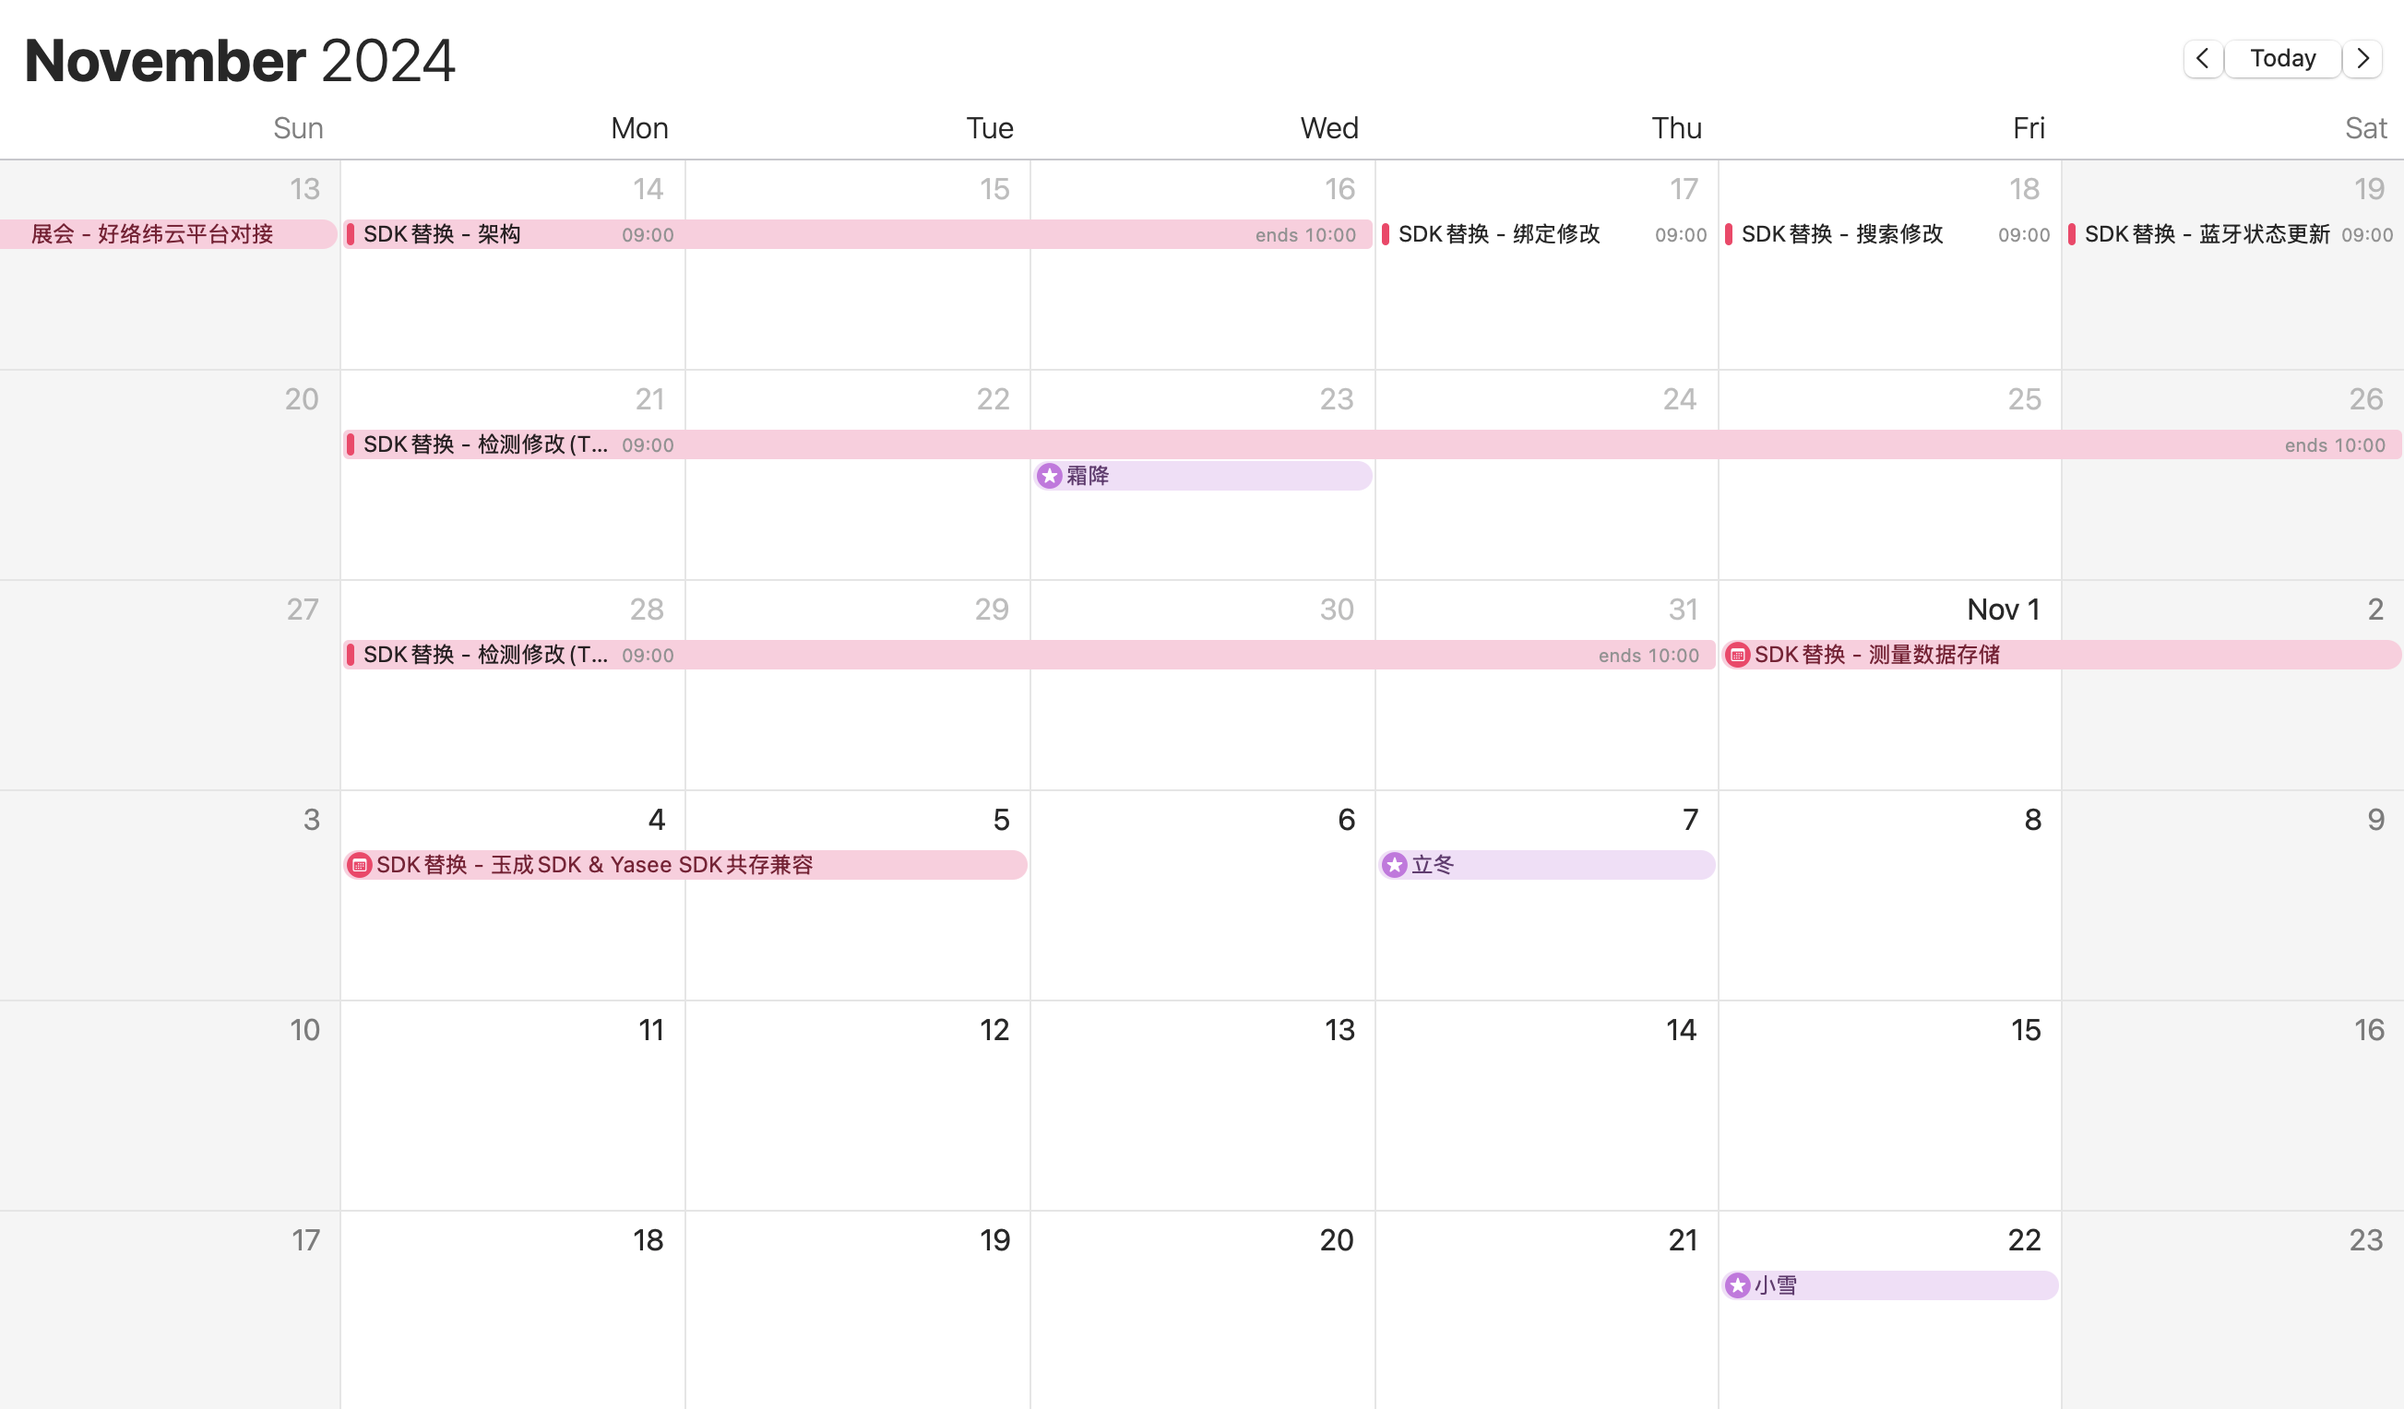
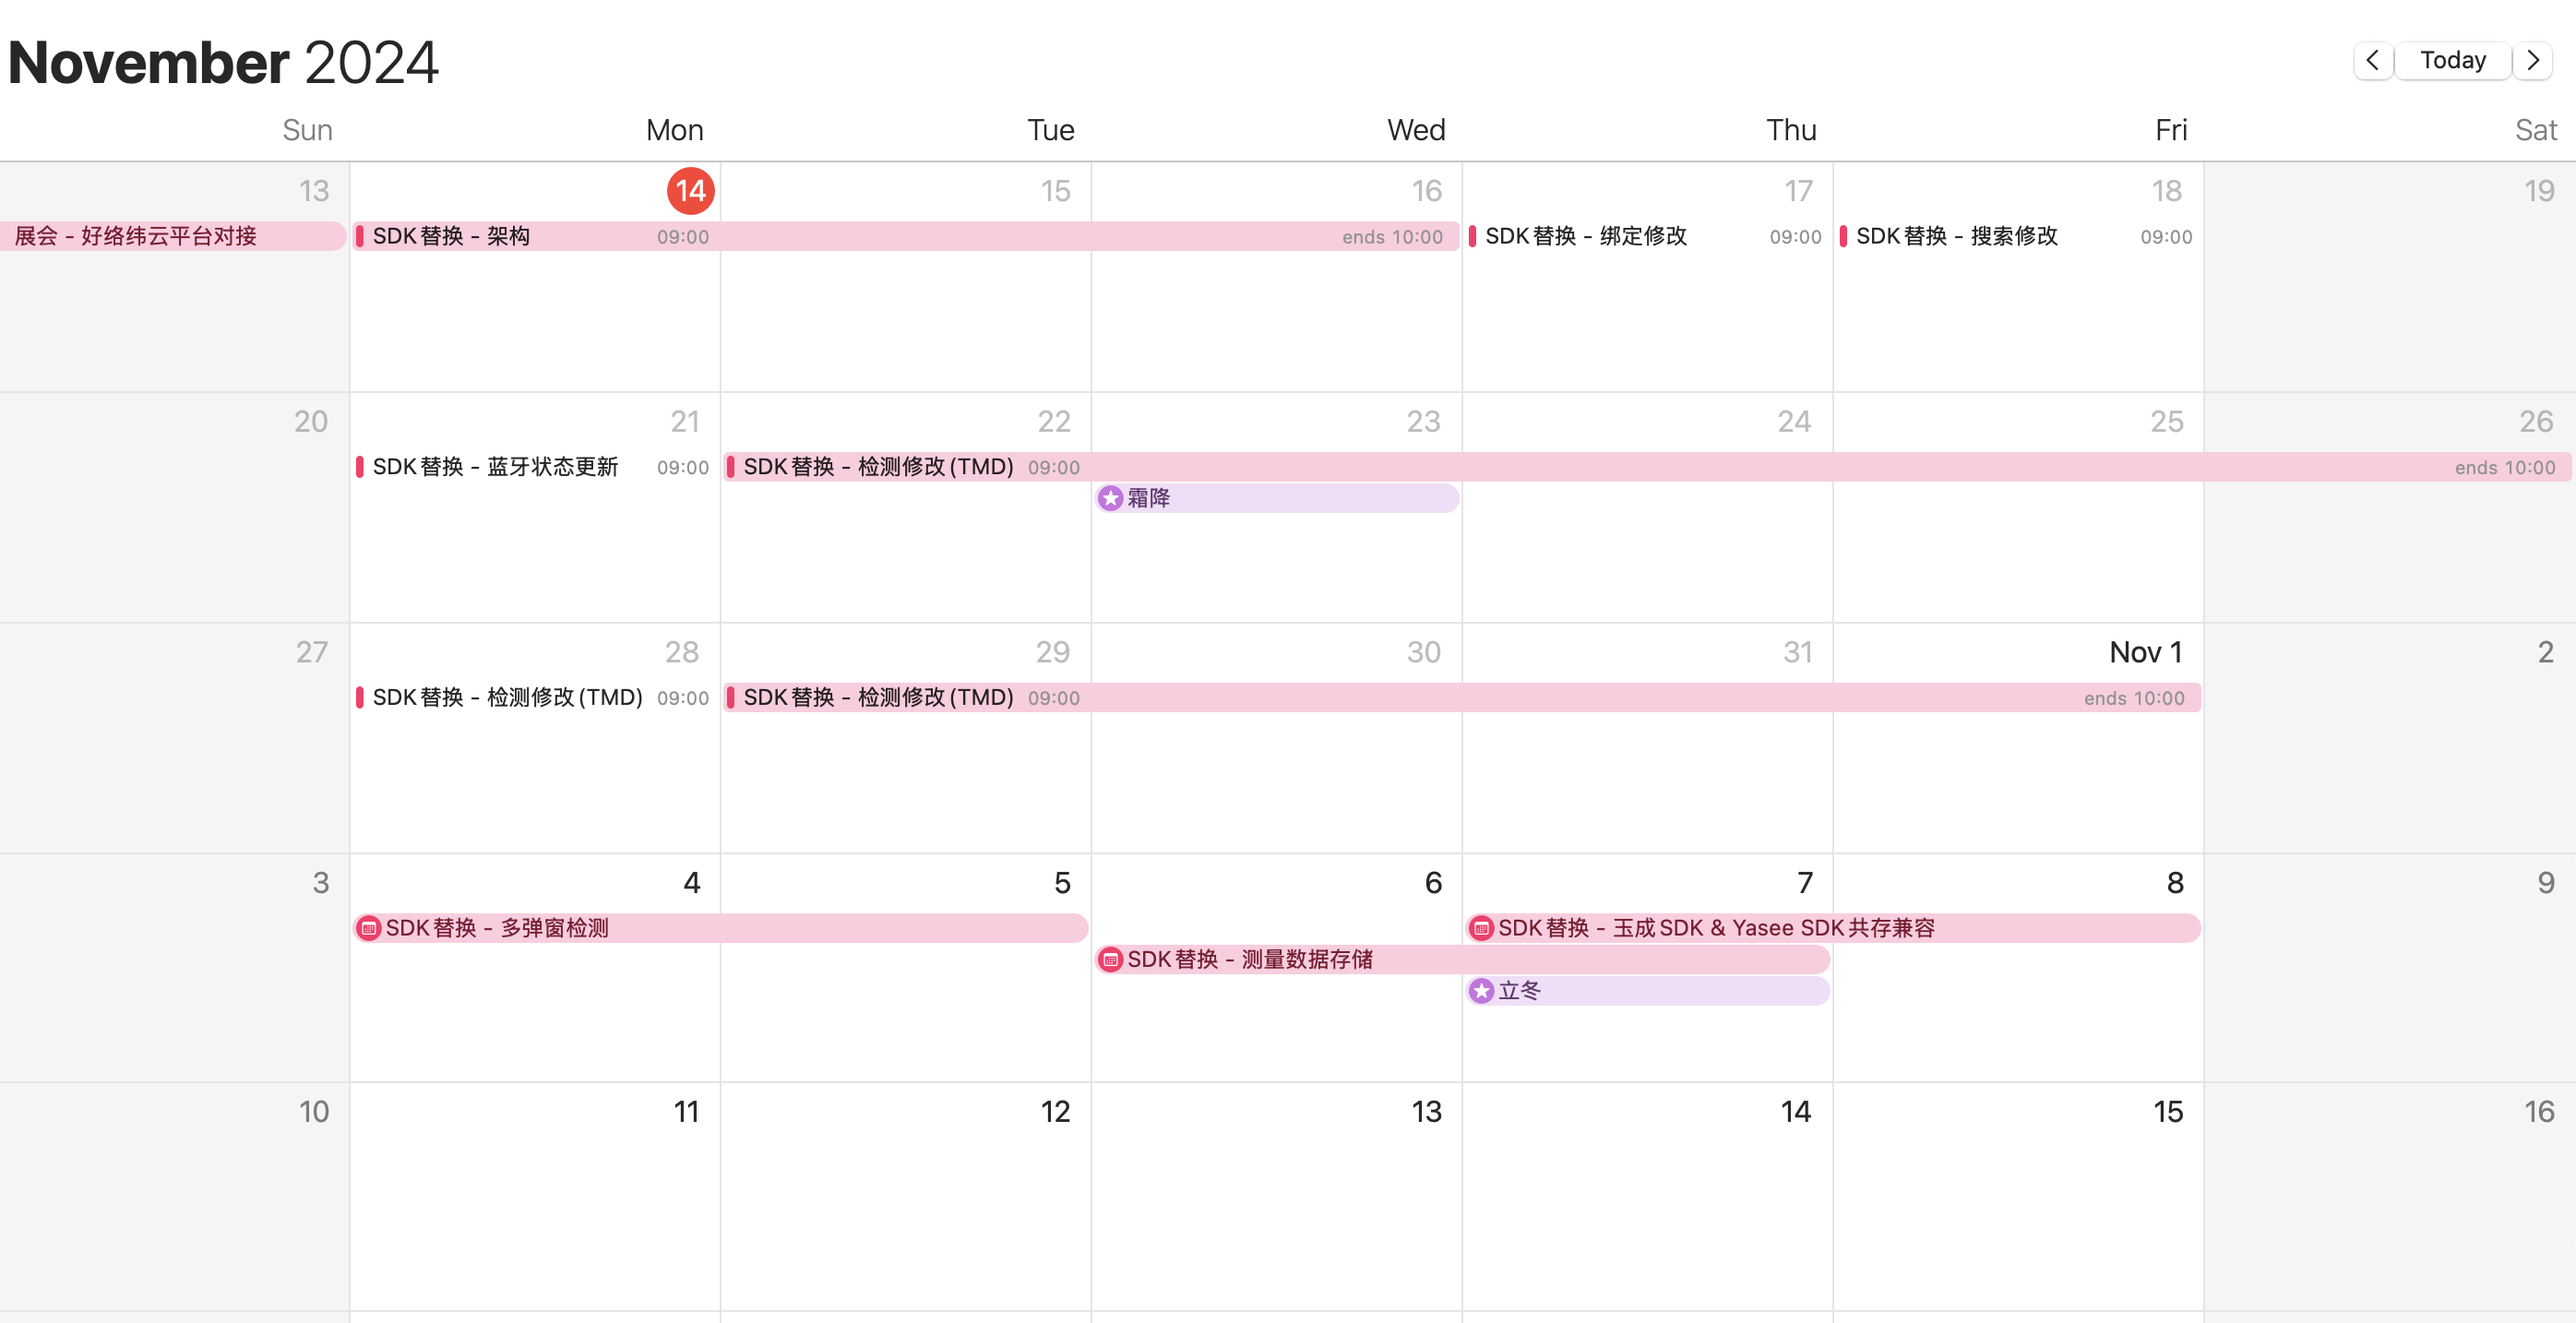
update docs

diff --git a/src/datas/tasks.ts b/src/datas/tasks.ts
@@ -81,7 +81,7 @@ let _24_09: Task[] = [
 let _24_10: Task[] = [
     {
       start: new Date(2024, 9, 14),
-      end: new Date(2024, 10, 6),
+      end: new Date(2024, 10, 9),
       name: 'SDK 架构替换',
       id: 'project',
       type:'project',
@@ -121,8 +121,8 @@ let _24_10: Task[] = [
       isDisabled: true,
       styles: { progressColor: '#ffbb54', progressSelectedColor: '#ff9e0d', backgroundColor: "#FFB6C1" },
     },{
-      start: new Date(2024, 9, 19),
-      end: new Date(2024, 9, 20),
+      start: new Date(2024, 9, 21),
+      end: new Date(2024, 9, 22),
       name: 'SDK替换 - 蓝牙状态更新',
       id: 'task-3',
       project: 'project',
@@ -131,8 +131,8 @@ let _24_10: Task[] = [
       isDisabled: true,
       styles: { progressColor: '#ffbb54', progressSelectedColor: '#ff9e0d', backgroundColor: 'purple' },
     },{
-      start: new Date(2024, 9, 21),
-      end: new Date(2024, 10, 1),
+      start: new Date(2024, 9, 22),
+      end: new Date(2024, 10, 2),
       name: 'SDK替换 - 检测修改(TMD)',
       id: 'task-4',
       project: 'project',
@@ -141,8 +141,18 @@ let _24_10: Task[] = [
       isDisabled: true,
       styles: { progressColor: '#ffbb54', progressSelectedColor: '#ff9e0d', backgroundColor: 'orange' },
     },{
-      start: new Date(2024, 10, 1),
-      end: new Date(2024, 10, 3),
+      start: new Date(2024, 10, 4),
+      end: new Date(2024, 10, 6),
+      name: 'SDK替换 - 多弹窗检测',
+      id: 'task-4',
+      project: 'project',
+      type:'task',
+      progress: 0,
+      isDisabled: true,
+      styles: { progressColor: '#ffbb54', progressSelectedColor: '#ff9e0d', backgroundColor: 'blue' },
+    },{
+      start: new Date(2024, 10, 6),
+      end: new Date(2024, 10, 8),
       name: 'SDK替换 - 测量数据存储',
       id: 'task-4',
       project: 'project',
@@ -151,8 +161,8 @@ let _24_10: Task[] = [
       isDisabled: true,
       styles: { progressColor: '#ffbb54', progressSelectedColor: '#ff9e0d', backgroundColor: 'blue' },
     },{
-        start: new Date(2024, 10, 4),
-        end: new Date(2024, 10, 6),
+        start: new Date(2024, 10, 7),
+        end: new Date(2024, 10, 9),
         name: 'SDK替换 - 玉成SDK & Yasee SDK共存兼容',
         id: 'task-4',
         project: 'project',

diff --git a/src/components/GanttTask.tsx b/src/components/GanttTask.tsx
@@ -3,12 +3,14 @@ import "gantt-task-react/dist/index.css";
 import { task_data } from '../datas/tasks';
 
 
-export function GanttTask(props: {year: number, month: number, height?: number}) {
+export function GanttTask(props: {year: number, month: number}) {
+
+  const tasks = task_data(props.year, props.month);
 
   return (
     <Gantt 
-      tasks={task_data(props.year, props.month)} locale='zh' 
-      listCellWidth='0' ganttHeight={props.height ?? 350} viewMode={ViewMode.Day} 
+      tasks={tasks} locale='zh' 
+      listCellWidth='0' ganttHeight={(tasks.length+1) * 45} viewMode={ViewMode.Day} 
       TaskListHeader={ () => <></> }
     />
   )

diff --git a/docs/inner/pms/pm_24_10.md b/docs/inner/pms/pm_24_10.md
@@ -1,37 +1,47 @@
 ---
-title: 24年 10月
+title: 24年 10月 计划
 description: 领导及同事, 这里是我们内部的文档中心,可以通过这里看我们自己的文档
 keywords: [欢迎, Yasee, 同事, 领导, SDK, 集成, BLE, 交互, Hook, 协议, 项目, 计划, PM]
 ---
 
 import { GanttTask } from '@site/src/components/GanttTask';
-import Tag from '@site/src/components/Tag';
-
-
-# 24年 10月 计划 
+import Tag from '@site/src/components/Tag'; 
 
 
 
-## 10月工作内容
+## 计划总览
 
-按照目前收集到的需求来讲,主要分为两个部分的内容:
+目前收集到的需求来讲,主要分为两个部分的内容:
 1. 百合医底层架构替换工作
 2. 百合医众测功能
 
 其中, 众测功能 了解甚少, 暂标记为 <Tag text={"风险项"} color={'red'} />. 
 
-** 目前众测功能暂未包含在计划内.
+**目前众测功能暂未包含在计划内.**
 
+按照 [展会突击项目](../reports/replace_yasee.md) 已对 百合医底层替换工作进行了部分的完成和实现; 
 
-## 计划总览
-
-按照 [展会突击项目](../reports/replace_yasee.md) 已对 百合医底层替换工作进行了部分的完成和实现; 目前 替换工作计划调整如下:
+目前 替换工作计划调整如下:
+- 任务周期 **缩短4天,现21天**
+- 任务节点 **8个** 
+- 任务开始 **10月14号**
+- 任务结束 **11月08号**
 
 ![最新计划](/img/plan_24_10.png)
 
 
 ## 任务分解
 
+目前将任务分解为以下内容:
+
+1. SDK替换 - 架构搭建
+2. SDK替换 - 绑定修改
+3. SDK替换 - 搜索修改
+4. SDK替换 - 蓝牙状态更新
+5. SDK替换 - 检测修改(TMD)
+6. SDK替换 - 多弹窗检测
+7. SDK替换 - 测量数据存储
+8. SDK替换 - 玉成SDK & Yasee SDK共存兼容
 
 ## 项目 进度 估算
 ![10月计划](/img/calendar_24_10.png)
@@ -40,6 +50,6 @@ import Tag from '@site/src/components/Tag';
 ## 甘特计划
 - 总计 任务周期 **21** 天
 - 总计 任务节点 **8** 节
-<GanttTask year={24} month={10} height={400} />
+<GanttTask year={24} month={10} />
 
 
